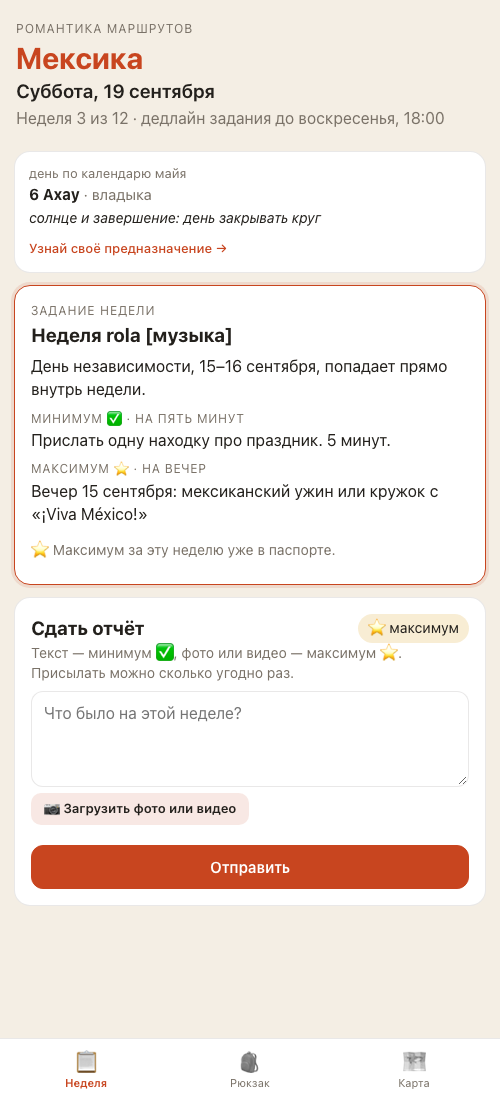
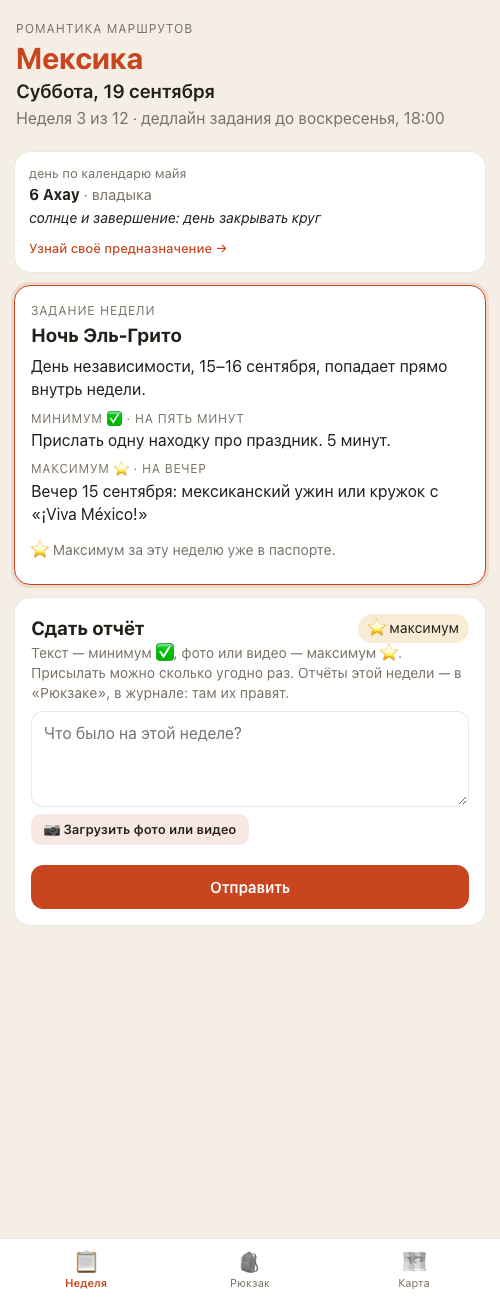
brain(06): on_stand — both critics pass, report reshot and updated

Changed region(s): [[0.03, 0.0, 0.99, 0.8345], [0.0, 0.9273, 1.0, 1.0]]

diff --git a/brain/tasks/06-map-tab-and-tidy/report.html b/brain/tasks/06-map-tab-and-tidy/report.html
@@ -61,7 +61,7 @@ code{font:13px var(--mono);background:var(--surface);border:1px solid var(--line
   <li>Ответ бота на отчёт больше не обещает «покажу общие итоги в воскресенье». Напоминание — тоже.</li>
   <li>Заморозки показаны <b>одним числом</b> — сколько осталось. Второе число («из 3») читалось как потолок.</li>
   <li><b>«Журнал в PDF» переехал наверх</b>, перед главами. <b>«Мои отчёты»</b> с вкладки «Неделя» убраны — то же самое есть в журнале, и правится там.</li>
-  <li>Проверено: 539 автоматических тестов из 539, помощник по коду — «проходит» после двух кругов. Помощник по экранам заканчивает.</li>
+  <li>Проверено: 541 автоматический тест из 541. Оба помощника — «проходит»: по коду после двух кругов, по экранам после двух.</li>
 </ul></aside>
 
 <h2>Что увидят люди: было → стало</h2>
@@ -85,13 +85,13 @@ code{font:13px var(--mono);background:var(--surface);border:1px solid var(--line
 <h3>Заморозки и журнал в «Рюкзаке»</h3>
 <div class="pair">
   <figure class="after"><div class="tag">стало · плитки</div><img src="after/bag-top-1006.png" alt="Плитки Рюкзака"><figcaption>«4 · заморозки · как заработать ещё?» — одно число. Раньше было «4 / 6», и второе число читалось как «больше нельзя». Сколько всего можно накопить — по ссылке, в листе. У штампов рядом два числа оставила: там «2 / 12» — это недели сезона, и второе число понятно само.</figcaption></figure>
-  <figure class="after"><div class="tag">стало · журнал</div><img src="after/bag-pdf-1006.png" alt="PDF над журналом"><figcaption>«Журнал в PDF» стоит над главами: за кнопкой приходят чаще, чем листают записи. Ниже — сам журнал по неделям, там же правка и «это не отчёт».</figcaption></figure>
+  <figure class="after"><div class="tag">стало · журнал</div><img src="after/bag-pdf-1006.png" alt="PDF над журналом"><figcaption>«Журнал в PDF» стоит над главами — видно, что сразу под ним начинается «ЖУРНАЛ · 3 НЕДЕЛИ». За кнопкой приходят чаще, чем листают записи; в самих главах — правка и «это не отчёт».</figcaption></figure>
 </div>
 
 <h3>Вкладка «Неделя» без «Моих отчётов»</h3>
 <div class="pair">
-  <figure><div class="tag">было</div><img src="before/week-reports-1007.png" alt="Мои отчёты до"><figcaption>Так вкладка кончалась раньше: под кнопкой «Отправить» шёл заголовок «Мои отчёты» и карточки — те же самые, что в журнале «Рюкзака». На этом кадре он не поместился; полный снимок пересниму перед выкаткой.</figcaption></figure>
-  <figure class="after"><div class="tag">стало</div><img src="after/app-1001.png" alt="Неделя после"><figcaption>Теперь вкладка заканчивается формой. После отправки бот отвечает «Принято» и говорит, где отчёт: «Рюкзак» → «Журнал» — там его правят и там же «это не отчёт».</figcaption></figure>
+  <figure><div class="tag">было</div><img src="before/week-reports-1001.png" alt="Мои отчёты до"><figcaption>Так вкладка кончалась раньше: под кнопкой «Отправить» — заголовок «МОИ ОТЧЁТЫ · 1 ОТЧЁТ» и карточка с «Поправить» и «Это не отчёт». Ровно то же самое лежит в журнале «Рюкзака».</figcaption></figure>
+  <figure class="after"><div class="tag">стало</div><img src="after/app-1001.png" alt="Неделя после"><figcaption>Теперь вкладка заканчивается формой, и в самой форме сказано, где отчёты: «Отчёты этой недели — в «Рюкзаке», в журнале: там их правят». Эта строка появляется у всех, кто уже сдал, — в том числе если отчёт был прислан в чат боту.</figcaption></figure>
 </div>
 
 <h3>Факты про Мексику — уже в боте</h3>
@@ -111,11 +111,12 @@ code{font:13px var(--mono);background:var(--surface);border:1px solid var(--line
 <tr><th>Кто</th><th>Что делал</th><th>Итог</th></tr>
 <tr><td>Автоматические проверки</td><td>Стиль кода и 539 автоматических тестов (было 538)</td><td>зелёное</td></tr>
 <tr><td>Помощник по коду</td><td>Два круга по каждой изменённой строке</td><td>проходит; нашёл мою ошибку — бот после отчёта звал «в список ниже», а списка на экране уже нет. Исправила. Ещё пять таких мест — тоже</td></tr>
-<tr><td>Помощник по экранам</td><td>Щёлкает бота и приложение: шесть правок, злые сценарии, чтение служебных записей</td><td>идёт</td></tr>
+<tr><td>Помощник по экранам</td><td>Два круга: шесть правок по именам, оба пути отправки отчёта, заморозки на пяти состояниях, сборка PDF и чтение файла, правка и отмена отчёта, злые сценарии, чтение служебных записей</td><td>проходит; нашёл две важные вещи — лист «как заработать ещё» врал про потолок (у того, кто заработал одну-две, писал «до 3» вместо «до 6»), и человек, сдавший отчёт в чат, нигде не видел, где отчёт. Обе закрыты</td></tr>
 </table>
 
 <section class="verdict"><h2>Что дальше</h2>
-<p>Выкачу, как только помощник по экранам даст добро — ты сказала не ждать отдельного слова.</p>
+<p>Выкатываю — обе проверки прошли, ты сказала не ждать отдельного слова.</p>
+<p><b>Что нашли по дороге и отложили.</b> Две вещи, которые были и раньше, но теперь заметнее, потому что правка отчётов живёт только в журнале: отчёт длиннее 4000 знаков, присланный в чат, не сохраняется при правке в приложении; а если поправить текст у отчёта, которому ты нажала «⭐ Это был максимум», звёздочка молча становится галочкой. Обе записаны, чиним отдельно — это не про сегодняшние правки.</p>
 <p><b>Отложенный вопрос — архив сезонов.</b> Ты говорила про «папки»: чтобы можно было зайти в Мексику, а потом в следующую страну. Это заметная работа, и решать надо не на бегу: где живут прошлые сезоны (в приложении или отдельной ссылкой), видно ли чужие страны тому, кто пришёл позже, что делать с журналами прошлых сезонов и как всё это не превратить в склад. Заведу отдельной задачей — обсудим, когда будет время.</p>
 <p>Если что-то не понравится — напиши, верну как было за десять минут.</p>
 <p>После выкатки посмотри с телефона: «🎒 Открыть клуб» → третья вкладка «Карта» (сверху «О клубе»), «Рюкзак» (кнопка PDF сверху, заморозки одним числом), и пришли боту любой текст — в ответе больше нет обещания итогов.</p></section>

diff --git a/brain/tasks/06-map-tab-and-tidy/status.md b/brain/tasks/06-map-tab-and-tidy/status.md
@@ -3,7 +3,7 @@ id: 06
 slug: map-tab-and-tidy
 title: Правки 19 сентября (вечер) — «Карта» вместо «Сезона», порядок блоков, факты про Мексику
 route: feature
-status: in_progress
+status: on_stand
 branch: feature/06-map-tab-and-tidy
 created: 2026-09-19
 updated: 2026-09-19
@@ -37,3 +37,4 @@ report: report.html
 
 - 2026-09-19 — карточка создана. Ответы Милы: «Карта»; заморозки одним числом. Дополнительная правка голосом: убрать «Мои отчёты» со вкладки «Неделя».
 - 2026-09-19 — код написан. `make check` 538/538 (число то же: удалён тест про обещание итогов, добавлены проверки). Глазами на стенде: «Карта» с «О клубе» вверху, плитка «4 заморозки», «Журнал в PDF» перед журналом.
+- 2026-09-19 — проверка. Верификатор: 538/538 → 541/541, «Сезон» как имя вкладки нигде не осталось, тесты Димы не тронуты. Критик кода: р1 — 1 критическая (квитанция после отчёта звала «в список ниже», который эта же задача и убрала) + 6 важных (тексты `/help` и `ADMIN_MEMO` про удалённый блок; мёртвый `reports_count` и `COUNT` за ним; DOMAIN сам себе противоречил; GUIDE-RU; «О клубе» дважды в DOMAIN) — закрыты (a578953); р2 — «проходит», 1 важная (мой новый тест вкладки ничего не проверял — `data-tab="season"` есть в панели всегда) — закрыта (470025b). Критик поверхности: р1 — «не проходит», 2 важных (лист заморозок называл потолком то, сколько человек уже заработал — моя ошибка из задачи 05; сдавший отчёт в чат нигде не видел, где отчёт) + F3 (кнопка «⭐ Это был максимум» молча выдавала заморозку) — закрыты (63ffb1d, `passport.freezes_max`, подсказка в форме, `MAX_FREEZE_BONUS`); р2 — «проходит», шесть правок Милы целы, логи чистые. Новые карточки bugs: длинный отчёт нельзя поправить; правка текста роняет кнопочный максимум; «это не отчёт» на прошедшей неделе тратит заморозку молча; длинный отчёт разворачивает журнал. Отчёт — редактура 1 раунд, правки внесены, снимки пересняты. Слово Милы «выкатывай как пройдёт проверка» — есть.

diff --git a/brain/backlog.md b/brain/backlog.md
@@ -4,17 +4,12 @@
 
 Состояния и правила — в [README.md](README.md). Карточка задачи — ссылка в первой колонке.
 
-## В работе
-
-| № | Задача | Маршрут | Ветка | Приёмка | Обновлено |
-|---|---|---|---|---|---|
-| 06 | [Правки 19 сентября (вечер) — «Карта» вместо «Сезона», порядок блоков, факты про Мексику](tasks/06-map-tab-and-tidy/status.md) | фича | `feature/06-map-tab-and-tidy` | 6/8 | 2026-09-19 · план: обещан, файла нет · [отчёт](tasks/06-map-tab-and-tidy/report.html) |
-
 ## На стенде
 
 | № | Задача | Маршрут | Ветка | Приёмка | Обновлено |
 |---|---|---|---|---|---|
 | 01 | [Харнес для работы Милы через Claude Code](tasks/01-harness/status.md) | фича | `harness` | 7/7 | 2026-09-16 · [план](specs/2026-09-16-harness.html) · [отчёт](tasks/01-harness/report.html) |
+| 06 | [Правки 19 сентября (вечер) — «Карта» вместо «Сезона», порядок блоков, факты про Мексику](tasks/06-map-tab-and-tidy/status.md) | фича | `feature/06-map-tab-and-tidy` | 6/8 | 2026-09-19 · план: обещан, файла нет · [отчёт](tasks/06-map-tab-and-tidy/report.html) |
 
 ## Готово к выкатке
 
